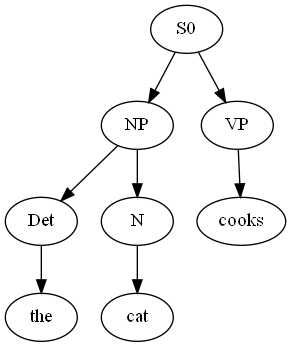
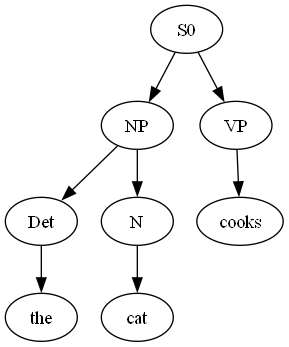
Refactor CFG to CNF conversion: Remove unused production S -> NP VP

diff --git a/CFG_to_CNF.py b/CFG_to_CNF.py
@@ -41,10 +41,7 @@ def convertir_CFG_a_CNF(ruta_cfg_json='CFG.json'):
         variables.append(nuevo_simbolo_inicial)
     prod_dict[nuevo_simbolo_inicial] = [simbolo_inicial]
 
-    # Paso 2: Eliminar producciones nulas (ε-producciones)
-    # En este caso, no hay producciones nulas, así que no es necesario
-
-    # Paso 3: Eliminar producciones unitarias
+    # Paso 2: Eliminar producciones unitarias
     def eliminar_producciones_unitarias(prod_dict):
         cambios = True
         while cambios:
@@ -64,7 +61,7 @@ def convertir_CFG_a_CNF(ruta_cfg_json='CFG.json'):
 
     prod_dict = eliminar_producciones_unitarias(prod_dict)
 
-    # Paso 4: Reemplazar terminales en producciones con variables
+    # Paso 3: Reemplazar terminales en producciones con variables
     def reemplazar_terminales(prod_dict):
         nuevas_producciones = copy.deepcopy(prod_dict)
         nuevas_variables = {}
@@ -90,7 +87,7 @@ def convertir_CFG_a_CNF(ruta_cfg_json='CFG.json'):
 
     prod_dict = reemplazar_terminales(prod_dict)
 
-    # Paso 5: Convertir producciones a binarias
+    # Paso 4: Convertir producciones a binarias
     def convertir_a_binario(prod_dict):
         nuevas_producciones = copy.deepcopy(prod_dict)
         indice_var = 1
@@ -109,23 +106,30 @@ def convertir_CFG_a_CNF(ruta_cfg_json='CFG.json'):
         return nuevas_producciones
 
     prod_dict = convertir_a_binario(prod_dict)
-    
 
-    # Gather all values from the dictionary (excluding S0 key values)
-    all_values = set()
-    for key, values in prod_dict.items():
-        if key != 'S0':  # Exclude 'S0'
-            for value_list in values:
-                # Split values if they contain spaces (like 'NP VP')
-                all_values.update(value_list.split())
+    # Paso 5: Eliminar producciones inútiles
+    def eliminar_producciones_inutiles(prod_dict, simbolo_inicial='S0'):
+        # Almacena los símbolos que se pueden alcanzar desde el símbolo inicial
+        alcanzables = set([simbolo_inicial])
+        cambios = True
 
-    # Remove keys that are not found in the values of other keys
-    prod_dict = {key: values for key, values in prod_dict.items() if key == 'S0' or key in all_values}
+        while cambios:
+            cambios = False
+            for var in list(prod_dict.keys()):
+                if var in alcanzables:
+                    for prod in prod_dict[var]:
+                        for simbolo in prod.split():
+                            if simbolo in prod_dict and simbolo not in alcanzables:
+                                alcanzables.add(simbolo)
+                                cambios = True
 
+        # Filtrar las producciones para incluir solo las alcanzables
+        prod_dict = {key: values for key, values in prod_dict.items() if key in alcanzables}
+        return prod_dict
 
+    prod_dict = eliminar_producciones_inutiles(prod_dict)
 
-
-    # Opcional: Guardar la gramática CNF en un archivo JSON
+    # Guardar la gramática CNF en un archivo JSON
     gramatica_cnf = {
         'variables': variables,
         'terminales': terminales,
